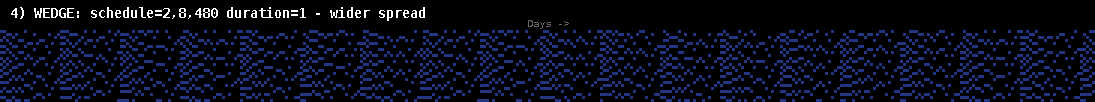
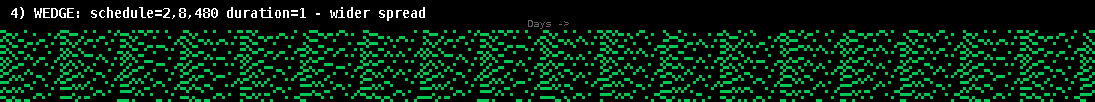
Change liquid map pixel color from dark blue to bright green for visibility
The dark blue (34, 52, 130) was hard to see against the black background.
Changed to bright green (0, 200, 80) which provides much better contrast.
Regenerated all 10 liquid map images and the combined image.

https://claude.ai/code/session_01F311SXdwXS95XDa5VEHYLw

Changed region(s): [[0.0, 0.2941, 1.0, 1.0], [0.9936, 0.2941, 1.0, 0.3235]]

diff --git a/LiquidMapGenerator.java b/LiquidMapGenerator.java
@@ -13,7 +13,7 @@ public class LiquidMapGenerator {
 
     static final int DAYS_IN_YEAR = 365;
     static final int HOURS_IN_DAY = 24;
-    static final int BLUE = new Color(34, 52, 130).getRGB();
+    static final int GREEN = new Color(0, 200, 80).getRGB();
     static final int SCALE = 3;
 
     // --- Core classes inlined ---
@@ -150,7 +150,7 @@ public class LiquidMapGenerator {
 
     public static void main(String[] args) throws Exception {
         List<BufferedImage> allImages = new ArrayList<>();
-        int blue = BLUE;
+        int green = GREEN;
         int black = Color.BLACK.getRGB();
 
         // === 1. Simple fixed periods for reference ===
@@ -160,7 +160,7 @@ public class LiquidMapGenerator {
             new Periodicity(new PeriodicityParams(7)),
             new Periodicity(new PeriodicityParams(1))
         ));
-        allImages.add(generate(jobs1, 24, blue, black, "1) Every 7 hours, 1hr duration - diagonal drift"));
+        allImages.add(generate(jobs1, 24, green, black, "1) Every 7 hours, 1hr duration - diagonal drift"));
 
         // === 2. Every 13 hours - steeper diagonal ===
         System.out.println("Generating: Fixed period every 13 hours...");
@@ -169,7 +169,7 @@ public class LiquidMapGenerator {
             new Periodicity(new PeriodicityParams(13)),
             new Periodicity(new PeriodicityParams(1))
         ));
-        allImages.add(generate(jobs2, 24, blue, black, "2) Every 13 hours, 1hr duration - different diagonal"));
+        allImages.add(generate(jobs2, 24, green, black, "2) Every 13 hours, 1hr duration - different diagonal"));
 
         // === 3. WEDGE: Linear periodicity transition ===
         System.out.println("Generating: Wedge pattern (schedule 1->4 over 240 hours)...");
@@ -178,7 +178,7 @@ public class LiquidMapGenerator {
             new Periodicity(new PeriodicityParams(1, 4, 240)),
             new Periodicity(new PeriodicityParams(1))
         ));
-        allImages.add(generate(jobs3, 24, blue, black, "3) WEDGE: schedule=1,4,240 duration=1 - spreading pattern"));
+        allImages.add(generate(jobs3, 24, green, black, "3) WEDGE: schedule=1,4,240 duration=1 - spreading pattern"));
 
         // === 4. WEDGE variant: schedule 2->8 over 480 hours ===
         System.out.println("Generating: Wedge pattern (schedule 2->8 over 480 hours)...");
@@ -187,7 +187,7 @@ public class LiquidMapGenerator {
             new Periodicity(new PeriodicityParams(2, 8, 480)),
             new Periodicity(new PeriodicityParams(1))
         ));
-        allImages.add(generate(jobs4, 24, blue, black, "4) WEDGE: schedule=2,8,480 duration=1 - wider spread"));
+        allImages.add(generate(jobs4, 24, green, black, "4) WEDGE: schedule=2,8,480 duration=1 - wider spread"));
 
         // === 5. Growing duration - job stretches over time ===
         System.out.println("Generating: Growing duration (1->7 hours over 9600 hours)...");
@@ -196,7 +196,7 @@ public class LiquidMapGenerator {
             new Periodicity(new PeriodicityParams(7)),
             new Periodicity(new PeriodicityParams(1, 7, 8760))
         ));
-        allImages.add(generate(jobs5, 24, blue, black, "5) schedule=7 duration=1,7,8760 - job grows over the year"));
+        allImages.add(generate(jobs5, 24, green, black, "5) schedule=7 duration=1,7,8760 - job grows over the year"));
 
         // === 6. The rescheduling scenario: fixed gap after finish + growing duration ===
         System.out.println("Generating: Reschedule 6hrs after finish, growing duration...");
@@ -205,7 +205,7 @@ public class LiquidMapGenerator {
             new Periodicity(new PeriodicityParams(6)),
             new Periodicity(new PeriodicityParams(1, 5, 4380))
         ));
-        allImages.add(generate(jobs6, 24, blue, black, "6) schedule=6 duration=1,5,4380 - reschedule after finish, growing"));
+        allImages.add(generate(jobs6, 24, green, black, "6) schedule=6 duration=1,5,4380 - reschedule after finish, growing"));
 
         // === 7. Composite: two jobs with different periods (interference) ===
         System.out.println("Generating: Two overlapping jobs (period 7 + period 11)...");
